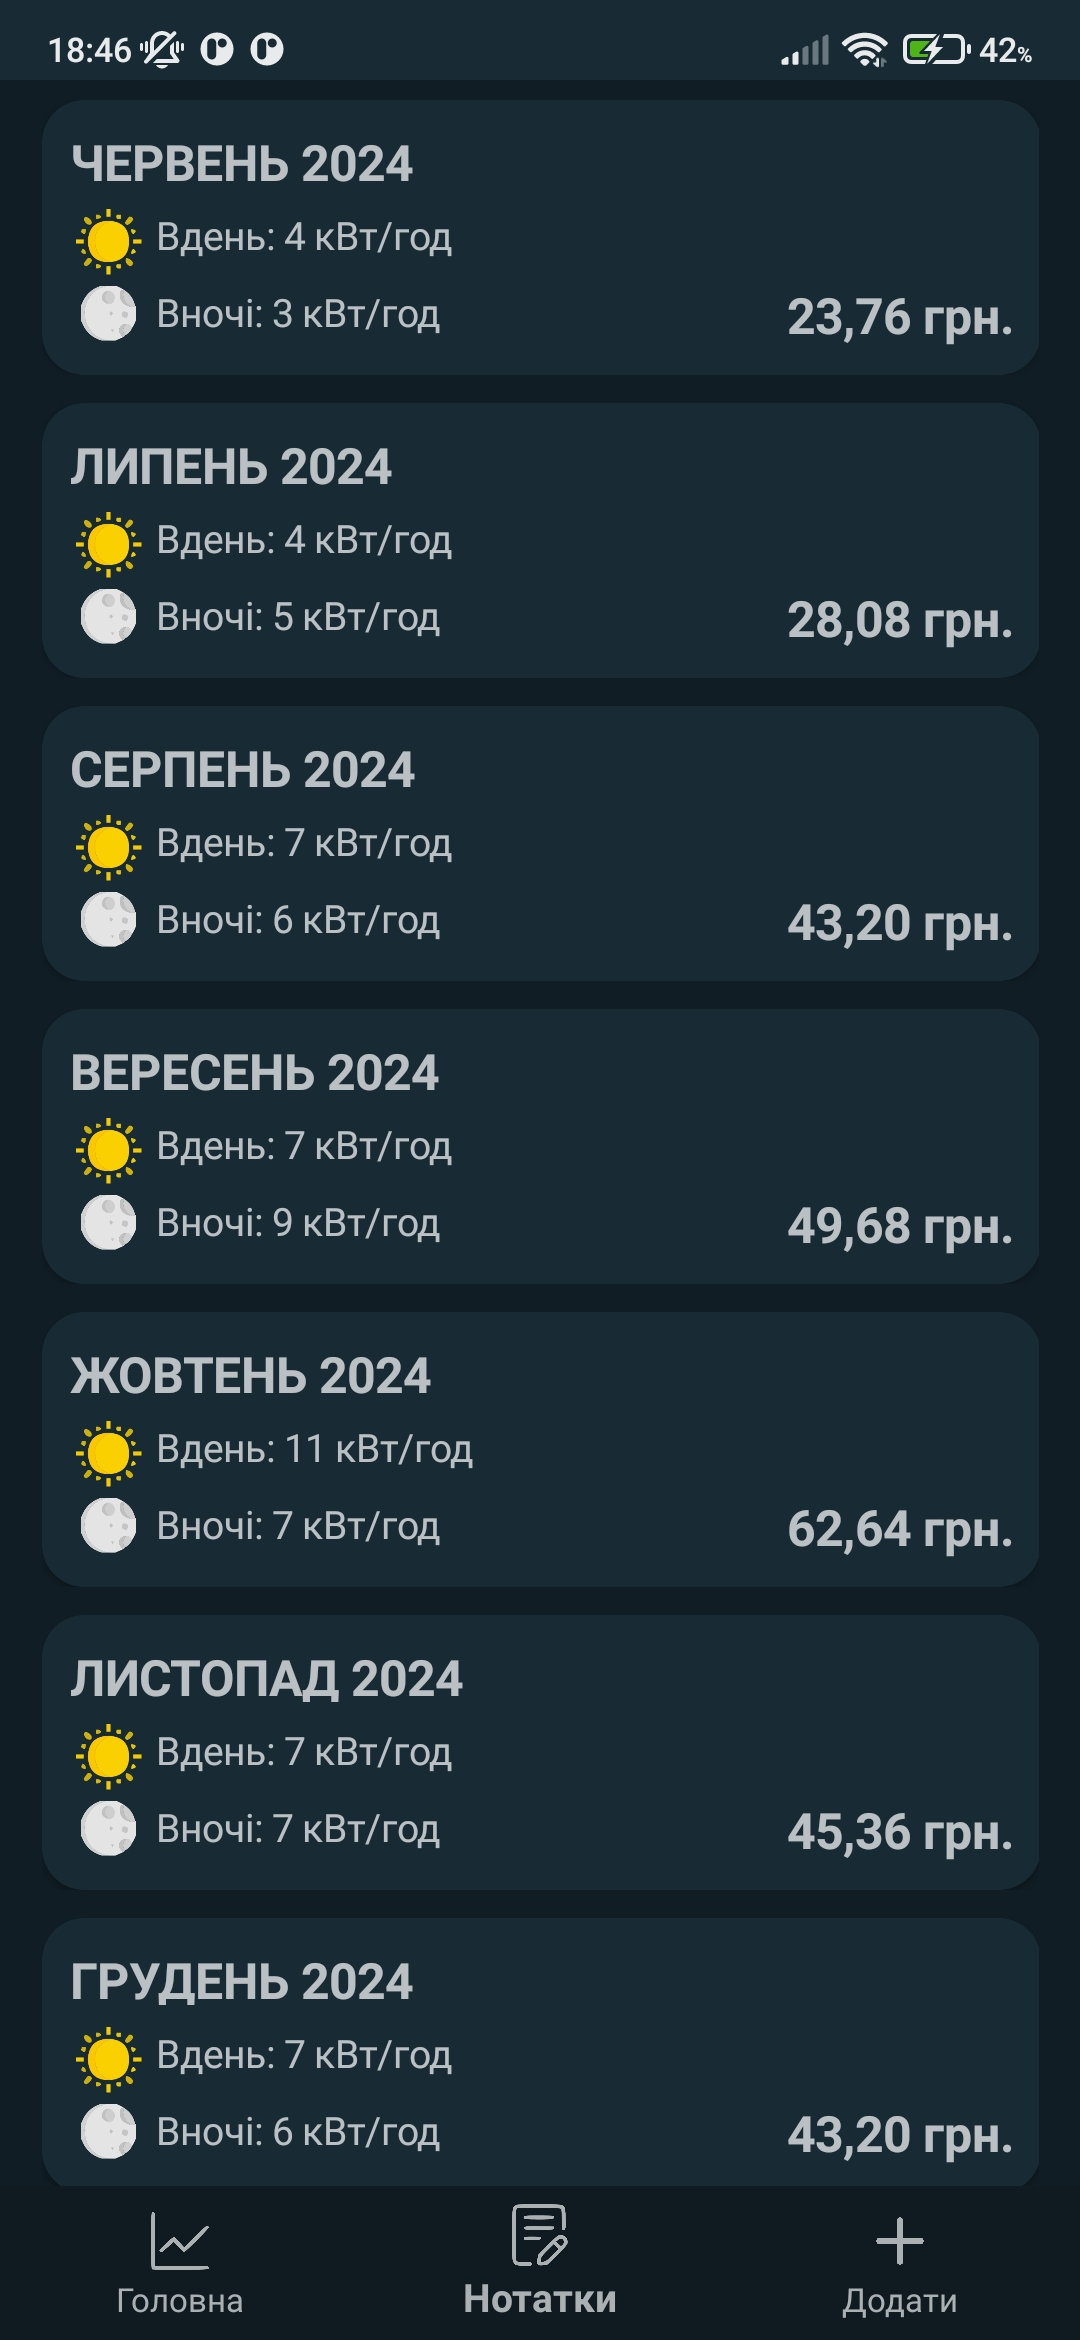
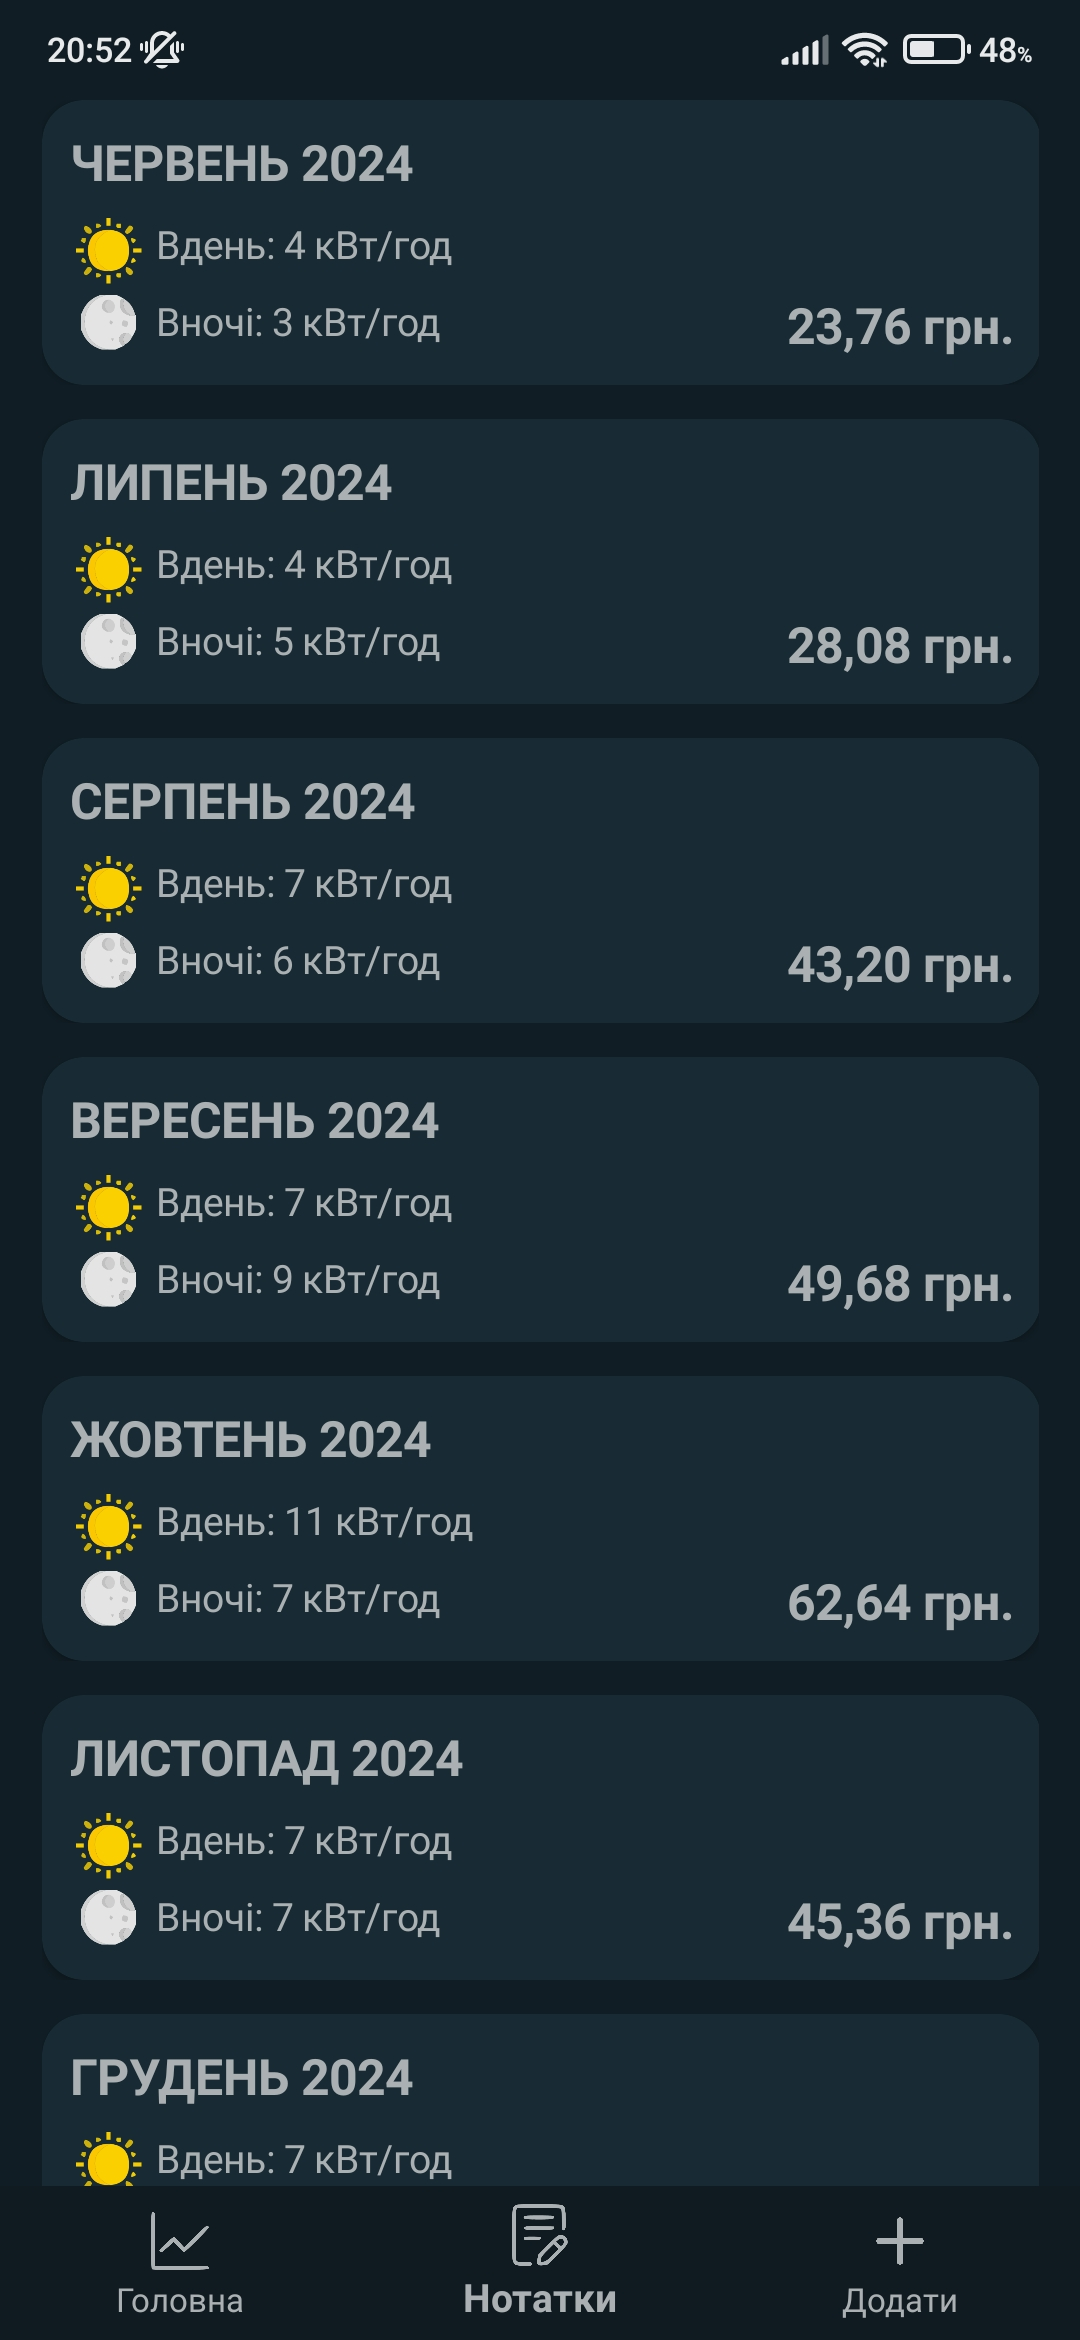
Some changes in ui. Fixed bug with label text color. Changes in colors.xml

diff --git a/ElectricityApp/ElectricityApp/Pages/NotesPage.xaml b/ElectricityApp/ElectricityApp/Pages/NotesPage.xaml
@@ -18,7 +18,7 @@
                 <CollectionView.ItemsLayout>
                     <LinearItemsLayout
                         Orientation="Vertical"
-                        ItemSpacing="10"/>
+                        ItemSpacing="12"/>
                 </CollectionView.ItemsLayout>
                 <CollectionView.ItemTemplate>
                     <DataTemplate x:DataType="models:ElectricityConsumption">
@@ -37,8 +37,8 @@
                                 Padding="10">
                             
                                 <Grid
-                                    RowDefinitions="0.4*, *"
-                                    ColumnDefinitions="*, 0.5*"
+                                    RowDefinitions="Auto, *"
+                                    ColumnDefinitions="*, Auto"
                                     RowSpacing="5">
                                     
                                     <Label

diff --git a/ElectricityApp/ElectricityApp/Pages/AddPage.xaml b/ElectricityApp/ElectricityApp/Pages/AddPage.xaml
@@ -9,7 +9,8 @@
     <VerticalStackLayout
         HorizontalOptions="Center"
         VerticalOptions="Center">
-        <DatePicker Date="{Binding Date, Converter={StaticResource DateOnlyConverter}}"/>
+        <DatePicker Date="{Binding Date, Converter={StaticResource DateOnlyConverter}}"
+                    TextColor="{StaticResource Light}"/>
         <Label
             Text="Спожито вдень"/>
         <controls:NumberBox

diff --git a/ElectricityApp/ElectricityApp/Resources/Styles/Styles.xaml b/ElectricityApp/ElectricityApp/Resources/Styles/Styles.xaml
@@ -23,5 +23,9 @@
         <Setter Property="HorizontalScrollBarVisibility" Value="Never"/>
         <Setter Property="VerticalScrollBarVisibility" Value="Never"/>
     </Style>
+
+    <Style TargetType="Label">
+        <Setter Property="TextColor" Value="{StaticResource Light}"/>
+    </Style>
     
 </ResourceDictionary>

diff --git a/ElectricityApp/ElectricityApp/Pages/MainPage.xaml b/ElectricityApp/ElectricityApp/Pages/MainPage.xaml
@@ -12,7 +12,7 @@
             Margin="15, 5">
             <Grid
                 RowDefinitions="*,*"
-                RowSpacing="10">
+                RowSpacing="15">
                 
                 <views:ChartContainerView
                     x:Name="AmountToPayChart"
